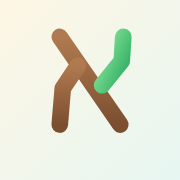
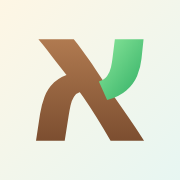
Make the app properly installable
- New icon: the bold alef from the app's font, brown with the green Sugi leaf
- Separate maskable icons with safe-zone padding for Android shapes
- Favicon PNG, apple-touch icon, manifest id, description, categories
- Two screenshots for Android's richer install dialog

Claude-Session: https://claude.ai/code/session_01Et4MmMngCCQtubJvTLk1Nq

Changed region(s): [[0.2222, 0.1389, 0.8056, 0.8056], [0.1944, 0.4444, 0.3889, 0.8056], [0.3611, 0.5833, 0.3889, 0.6111]]

diff --git a/sw.js b/sw.js
@@ -1,5 +1,5 @@
 /* Offline support: everything the app needs is cached on install. */
-const CACHE = "aleph-v8";
+const CACHE = "aleph-v9";
 const SHELL = [
   "./",
   "index.html",
@@ -15,6 +15,9 @@ const SHELL = [
   "icons/icon-192.png",
   "icons/icon-512.png",
   "icons/apple-touch-icon.png",
+  "icons/icon-maskable-192.png",
+  "icons/icon-maskable-512.png",
+  "icons/favicon-32.png",
   "fonts/noto-sans-hebrew-hebrew.woff2",
   "fonts/noto-sans-hebrew-latin.woff2",
   "fonts/baloo2-sugigames.woff2",

diff --git a/index.html b/index.html
@@ -12,6 +12,7 @@
 <meta name="apple-mobile-web-app-title" content="אלף" />
 <link rel="manifest" href="manifest.webmanifest" />
 <link rel="icon" href="icons/icon.svg" type="image/svg+xml" />
+<link rel="icon" href="icons/favicon-32.png" type="image/png" sizes="32x32" />
 <link rel="apple-touch-icon" href="icons/apple-touch-icon.png" />
 <link rel="preload" href="fonts/noto-sans-hebrew-hebrew.woff2" as="font" type="font/woff2" crossorigin />
 <link rel="stylesheet" href="css/app.css" />
